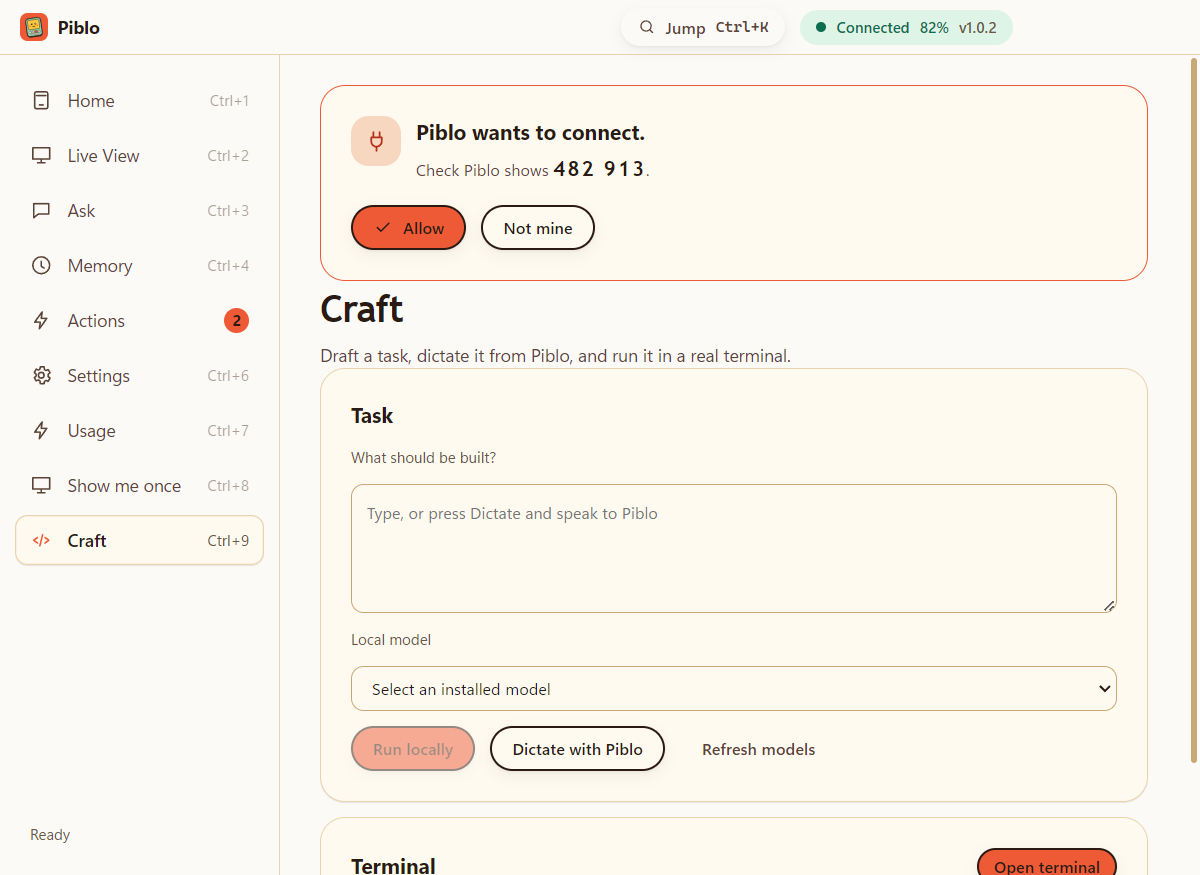
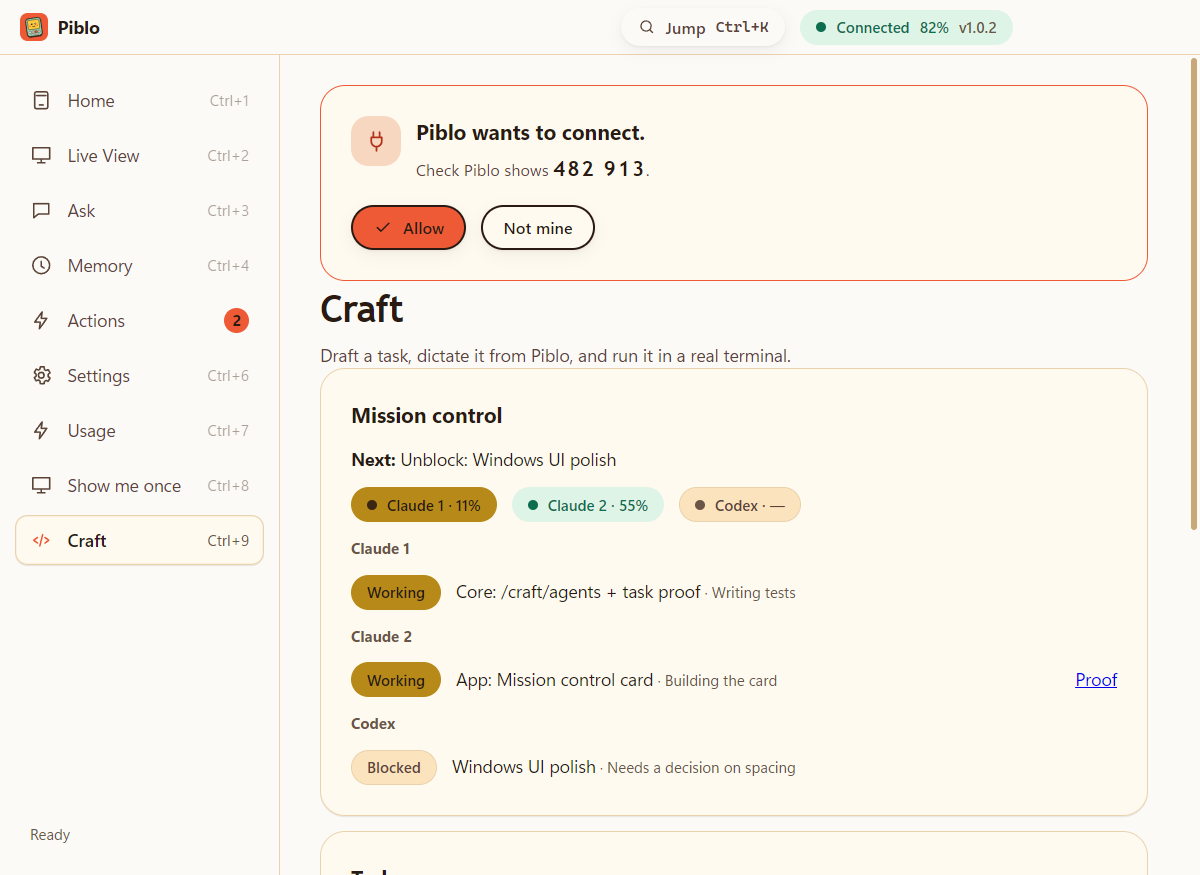
Craft: Mission control card (agents, tasks, proof, Next)

diff --git a/app/src/pages/CraftMission.tsx b/app/src/pages/CraftMission.tsx
@@ -1,0 +1,53 @@
+import { useEffect, useState } from 'react';
+import { agentTone, groupByAgent, nextAction, STATUS_LABEL, type MissionData, type MissionTask } from '../lib/mission';
+
+const isUrl = (s: string) => /^https?:\/\//.test(s);
+const tone = { done: 'ok', running: 'warn', failed: 'bad', waiting: '' } as const;
+
+function Proof({ proof }: { proof: string }) {
+  return isUrl(proof)
+    ? <a href={proof} onClick={(e) => { e.preventDefault(); void window.piblo.openExternal(proof); }}>Proof</a>
+    : <span className="meta" title={proof} style={{ overflowWrap: 'anywhere' }}>Proof: {proof}</span>;
+}
+
+function TaskRow({ t }: { t: MissionTask }) {
+  return <li className="row" style={{ alignItems: 'baseline', flexWrap: 'wrap' }}>
+    <span className={`pill ${tone[t.status]}`}>{STATUS_LABEL[t.status]}</span>
+    <span className="grow" style={{ minWidth: 0, overflowWrap: 'anywhere' }}>{t.title}{t.detail && <span className="meta"> · {t.detail}</span>}</span>
+    {t.proof && <Proof proof={t.proof} />}
+  </li>;
+}
+
+export function CraftMission() {
+  const [data, setData] = useState<MissionData | null>(null);
+  useEffect(() => {
+    let live = true;
+    const load = () => void window.piblo.craftMission!.get().then((d) => live && setData(d)).catch(() => live && setData(null));
+    load();
+    const timer = setInterval(load, 10_000);
+    return () => { live = false; clearInterval(timer); };
+  }, []);
+
+  return <section className="card stack" aria-labelledby="craft-mission">
+    <h2 id="craft-mission">Mission control</h2>
+    {!data ? <p className="meta">Core is not reachable right now.</p> : <>
+      <p><strong>Next:</strong> {nextAction(data.tasks)}</p>
+      {data.error === 'cswap_unavailable' && <p className="meta">Agent usage is unavailable (cswap not found).</p>}
+      <div className="row" style={{ flexWrap: 'wrap' }} aria-label="Agents">
+        {data.agents.map((a) => {
+          const k = agentTone(a);
+          return <span key={a.id} className={`pill ${k === 'ok' || k === 'warn' ? k : ''}`} style={a.installed ? undefined : { opacity: 0.55 }}>
+            <span className="dot" />{a.label} · {a.installed ? (a.pct_left === null ? '—' : `${a.pct_left}%`) : 'not installed'}
+          </span>;
+        })}
+      </div>
+      <div className="stack">
+        {groupByAgent(data.agents, data.tasks).filter((g) => g.tasks.length).map((g) => <div key={g.id} className="stack">
+          <h3 className="meta">{g.agent?.label ?? g.id}</h3>
+          <ul className="stack" style={{ listStyle: 'none', padding: 0, margin: 0 }}>{g.tasks.map((t) => <TaskRow key={t.id} t={t} />)}</ul>
+        </div>)}
+        {!data.tasks.length && <p className="meta">No tasks yet.</p>}
+      </div>
+    </>}
+  </section>;
+}

diff --git a/app/tests/mission.test.ts b/app/tests/mission.test.ts
@@ -1,0 +1,25 @@
+import { describe, it, expect } from 'vitest';
+import { agentTone, groupByAgent, nextAction, type MissionAgent, type MissionTask } from '../src/lib/mission';
+
+const t = (id: string, agent: string, status: MissionTask['status']): MissionTask => ({ id, agent, title: id, status });
+const a = (id: string, o: Partial<MissionAgent> = {}): MissionAgent => ({ id, label: id, installed: true, active: false, pct_left: 50, ...o });
+
+describe('mission', () => {
+  it('nextAction: failed beats waiting beats running; else all clear', () => {
+    expect(nextAction([t('a', 'x', 'running'), t('b', 'x', 'waiting'), t('c', 'x', 'failed')])).toBe('Fix: c');
+    expect(nextAction([t('a', 'x', 'running'), t('b', 'x', 'waiting')])).toBe('Unblock: b');
+    expect(nextAction([t('a', 'x', 'running'), t('d', 'x', 'done')])).toBe('Watching: a');
+    expect(nextAction([t('d', 'x', 'done')])).toBe('All clear');
+    expect(nextAction([])).toBe('All clear');
+  });
+  it('groupByAgent keeps agent order and adds unknown agents', () => {
+    const g = groupByAgent([a('c1'), a('c2')], [t('1', 'c2', 'done'), t('2', 'zz', 'done'), t('3', 'c1', 'done')]);
+    expect(g.map((x) => [x.id, x.tasks.map((y) => y.id)])).toEqual([['c1', ['3']], ['c2', ['1']], ['zz', ['2']]]);
+  });
+  it('agentTone: off, warn under 15%, ok when active, else idle', () => {
+    expect(agentTone(a('x', { installed: false }))).toBe('off');
+    expect(agentTone(a('x', { pct_left: 11, active: true }))).toBe('warn');
+    expect(agentTone(a('x', { active: true }))).toBe('ok');
+    expect(agentTone(a('x', { pct_left: null }))).toBe('idle');
+  });
+});

diff --git a/app/electron/craft-terminal.ts b/app/electron/craft-terminal.ts
@@ -5,7 +5,7 @@ import { registerCraftTasks } from './craft-task-ipc';
 import type { CraftVoiceBridge } from '../shared/types';
 import type { IPty } from 'node-pty';
 
-export function registerCraftTerminal(window: BrowserWindow, trustedUrl: string, voice: CraftVoiceBridge) {
+export function registerCraftTerminal(window: BrowserWindow, trustedUrl: string, voice: CraftVoiceBridge, mission: () => Promise<unknown>) {
   const limit = 128 * 1024;
   let session: { pty: IPty; history: string; end: number; exited: boolean; id: number } | undefined;
   let generation = 0;
@@ -20,6 +20,7 @@ export function registerCraftTerminal(window: BrowserWindow, trustedUrl: string,
   for (const method of ['arm', 'read', 'cancel'] as const) {
     ipcMain.handle('craft-voice:' + method, event => { authorize(event); return voice[method](); });
   }
+  ipcMain.handle('craft-mission:get', event => { authorize(event); return mission(); });
   function current(id: unknown) {
     if (!session || id !== session.id) throw new Error('Terminal session closed.');
     return session;
@@ -74,6 +75,7 @@ export function registerCraftTerminal(window: BrowserWindow, trustedUrl: string,
   window.webContents.on('render-process-gone', () => { tasks.cancel(); close(); });
   window.once('closed', () => {
     tasks.dispose();
+    ipcMain.removeHandler('craft-mission:get');
     void voice.cancel().catch(() => {});
     for (const method of ['arm', 'read', 'cancel']) ipcMain.removeHandler('craft-voice:' + method);
     for (const channel of ['open', 'read', 'write', 'resize', 'close']) ipcMain.removeHandler('craft:' + channel);

diff --git a/app/electron/main.ts b/app/electron/main.ts
@@ -56,6 +56,12 @@ const port = () => discoverPort(locate(), realFs, process.env);
 const token = () => discoverToken(locate(), realFs, process.env);
 const api = createApiClient({ baseUrl: () => `http://127.0.0.1:${port()}`, token, refreshToken: token });
 
+/** Agents + tasks for the Craft Mission control card. Missing /craft/agents (old Core) gives no agents; tasks failing throws so the card shows "not reachable". */
+async function craftMission() {
+  const [a, t] = await Promise.all([api.request<{ agents?: unknown[]; error?: string }>('GET', '/craft/agents'), api.request<{ tasks?: unknown[] }>('GET', '/buddy/tasks')]);
+  if (!t.ok) throw new Error(t.message);
+  return { agents: (a.ok && a.data.agents) || [], tasks: t.data.tasks || [], error: a.ok ? a.data.error : undefined };
+}
 const logFile = () => path.join(locate().installDir, 'logs', 'core.log');
 function logTail(): string {
   try {
@@ -134,7 +140,7 @@ function createWindow(): BrowserWindow {
       additionalArguments: [`--piblo-version=${app.getVersion()}`, ...(craftPilot ? ['--craft-terminal-pilot'] : [])],
     },
   });
-  if (craftPilot) registerCraftTerminal(w, pathToFileURL(rendererFile).href, craftVoice(() => `http://127.0.0.1:${port()}`, token));
+  if (craftPilot) registerCraftTerminal(w, pathToFileURL(rendererFile).href, craftVoice(() => `http://127.0.0.1:${port()}`, token), craftMission);
   w.setMenuBarVisibility(false);
   // First paint is not guaranteed: if the renderer never becomes ready the window would stay
   // invisible, so the gate also reveals on did-finish-load and after a failsafe timeout.

diff --git a/app/src/lib/mission.ts b/app/src/lib/mission.ts
@@ -1,0 +1,23 @@
+export interface MissionAgent { id: string; label: string; kind?: string; installed: boolean; active: boolean; pct_left: number | null; resets_at?: string | null }
+export interface MissionTask { id: string; agent: string; title: string; status: 'waiting' | 'running' | 'done' | 'failed'; progress?: number | null; detail?: string; proof?: string; updated?: string }
+export interface MissionData { agents: MissionAgent[]; tasks: MissionTask[]; error?: string }
+
+export const STATUS_LABEL: Record<MissionTask['status'], string> = { waiting: 'Blocked', running: 'Working', done: 'Done', failed: 'Failed' };
+
+/** One line for the top of the card: failed first, then waiting, then running. */
+export function nextAction(tasks: MissionTask[]): string {
+  for (const [status, verb] of [['failed', 'Fix'], ['waiting', 'Unblock'], ['running', 'Watching']] as const) {
+    const t = tasks.find((x) => x.status === status);
+    if (t) return `${verb}: ${t.title}`;
+  }
+  return 'All clear';
+}
+
+/** Tasks grouped by agent, in agent order, then any unknown agents. */
+export function groupByAgent(agents: MissionAgent[], tasks: MissionTask[]) {
+  const ids = [...agents.map((a) => a.id), ...tasks.map((t) => t.agent)];
+  return [...new Set(ids)].map((id) => ({ id, agent: agents.find((a) => a.id === id), tasks: tasks.filter((t) => t.agent === id) }));
+}
+
+export const agentTone = (a: MissionAgent): 'ok' | 'warn' | 'idle' | 'off' =>
+  !a.installed ? 'off' : a.pct_left !== null && a.pct_left < 15 ? 'warn' : a.active ? 'ok' : 'idle';

diff --git a/app/src/pages/Craft.tsx b/app/src/pages/Craft.tsx
@@ -1,5 +1,6 @@
 import { useEffect, useRef, useState } from 'react';
 import { CraftTask } from './CraftTask';
+import { CraftMission } from './CraftMission';
 import { PageHead } from '../components/ui';
 import { Terminal } from '@xterm/xterm';
 import { FitAddon } from '@xterm/addon-fit';
@@ -95,6 +96,7 @@ export function Craft() {
   return <>
     <PageHead title="Craft" sub="Draft a task, dictate it from Piblo, and run it in a real terminal." />
     <div className="stack">
+      {window.piblo.craftMission && <CraftMission />}
       <CraftTask />
       <section className="card stack" aria-labelledby="craft-terminal">
         <div className="row">

diff --git a/app/electron/preload.ts b/app/electron/preload.ts
@@ -14,6 +14,8 @@ const bridge: PibloBridge = {
     arm: () => invoke('craft-voice:arm'),
     read: () => invoke('craft-voice:read'),
     cancel: () => invoke('craft-voice:cancel'),
+  }, craftMission: {
+    get: () => invoke<never>('craft-mission:get'),
   }, craftTerminal: {
     open: (cols: number, rows: number) => invoke<{ id: number; data: string; end: number }>('craft:open', cols, rows),
     read: (id: number, offset: number) => invoke<{ data: string; end: number; exited: boolean; truncated: boolean }>('craft:read', id, offset),

diff --git a/app/shared/types.ts b/app/shared/types.ts
@@ -106,6 +106,7 @@ export interface CraftVoiceBridge {
 export interface PibloBridge {
   craftTask?: CraftTaskBridge;
   craftVoice?: CraftVoiceBridge;
+  craftMission?: { get(): Promise<import('../src/lib/mission').MissionData> };
   craftTerminal?: {
     open(cols: number, rows: number): Promise<{ id: number; data: string; end: number }>;
     read(id: number, offset: number): Promise<{ data: string; end: number; exited: boolean; truncated: boolean }>;
